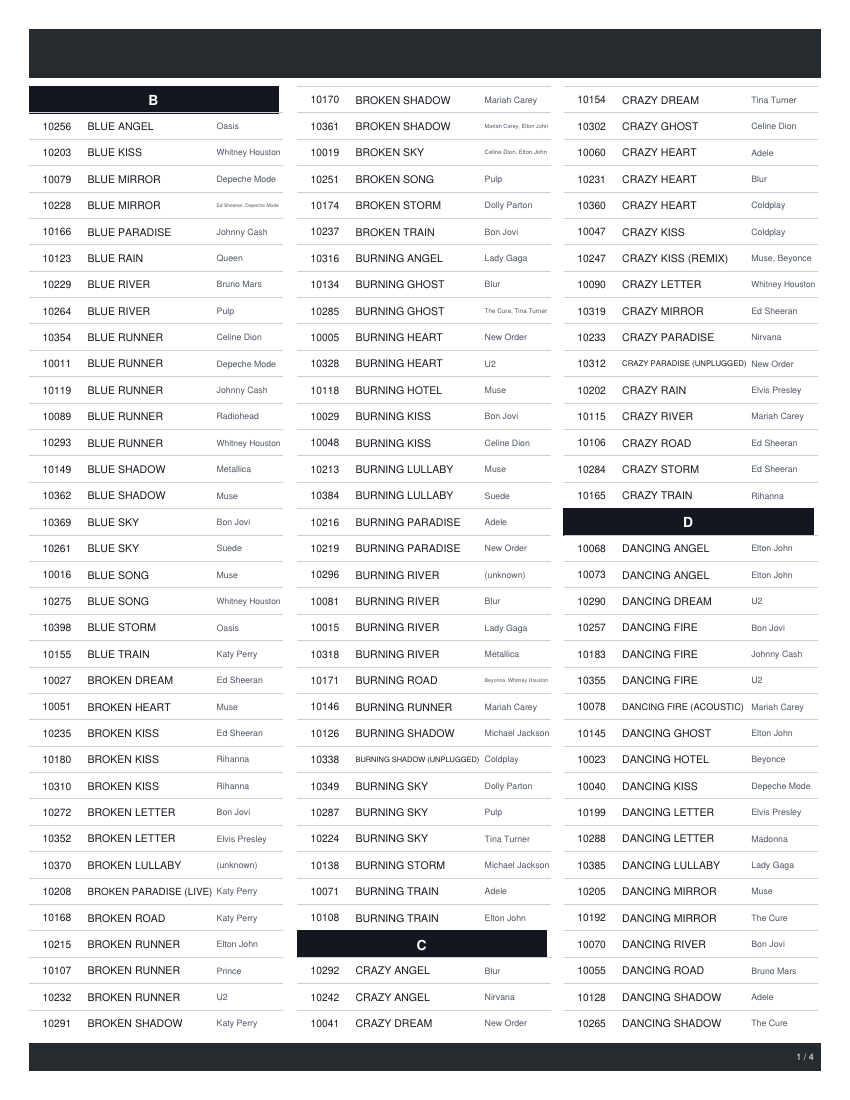
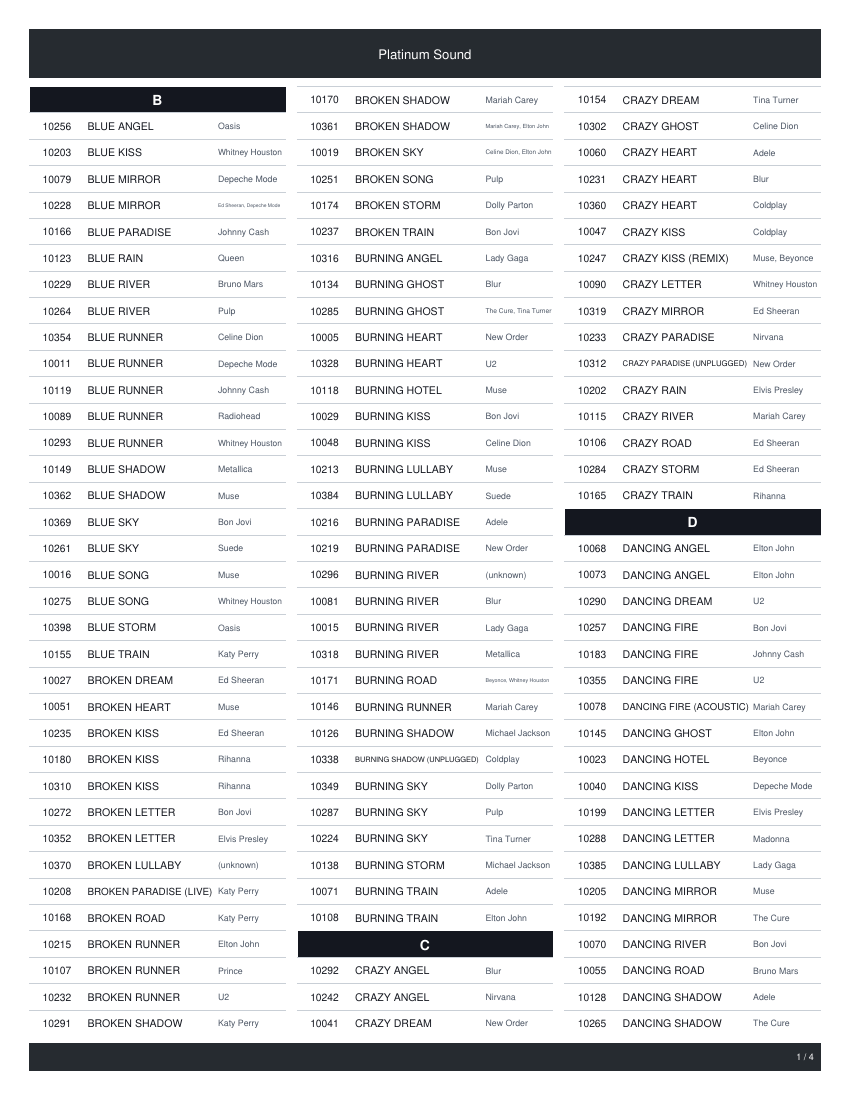
render: line the grid up exactly
The number, title and artist cells were rounded independently, so their
sum fell short of the column width and the vertical rules of neighbouring
columns did not meet. The artist column now takes the remainder, the
column positions are no longer rounded, and the section letter boxes use
the same bounds as a song row.

diff --git a/cli/src/render.rs b/cli/src/render.rs
@@ -331,19 +331,22 @@ pub fn render(songs: &[Song], opt: &Options) -> Result<(Pdf, Summary), String> {
     let mut col_x = Vec::with_capacity(cols);
     let mut x = m;
     for _ in 0..cols {
-        col_x.push(x.round());
+        // exact positions: rounding here would make the gaps between columns
+        // differ by a point or two
+        col_x.push(x);
         x += col_w + GAP;
     }
 
-    let mut num_w = NUM_W;
-    let rest = (col_w - NUM_W).floor();
-    let mut title_w = (0.65 * rest).floor();
-    let artist_w = (0.35 * rest).floor();
+    // The three cells must add up to exactly one column, otherwise every
+    // column would end short of the next one and the grid would look ragged.
     let max_num = songs.iter().map(|s| s.num).max().unwrap_or(0);
+    let mut num_w = NUM_W;
+    let mut title_w = (0.65 * (col_w - NUM_W)).floor();
     if max_num > 9_999_999 {
         num_w += 2.0;
         title_w -= 2.0;
     }
+    let artist_w = col_w - num_w - title_w;
     let cells: [f32; 3] = if opt.no_artist {
         if opt.order == Order::Tna {
             [title_w + artist_w, num_w, 0.0]
@@ -499,15 +502,16 @@ pub fn render(songs: &[Song], opt: &Options) -> Result<(Pdf, Summary), String> {
                 match item {
                     Item::Letter(ch) => {
                         let mut txt = ch.to_string();
-                        pdf.fill_rect(col_x[c] - 1.0, y_top - 1.0, total_w - 2.0, ROW_H + 2.0, opt.section_bg);
+                        // same bounds as a song row, so the grid stays flush
+                        pdf.fill_rect(col_x[c], y_top, total_w, ROW_H, opt.section_bg);
                         if opt.borders != Borders::None {
-                            pdf.stroke_rect(col_x[c] - 1.0, y_top - 1.0, total_w - 2.0, ROW_H + 2.0, opt.section_color, 0.2);
+                            pdf.stroke_rect(col_x[c], y_top, total_w, ROW_H, opt.section_color, 0.2);
                         }
-                        let (fitted, sz) = truncate_to_width(&txt, sz_letter, total_w - 2.0, true);
+                        let (fitted, sz) = truncate_to_width(&txt, sz_letter, total_w - 4.0, true);
                         txt = fitted;
                         pdf.text(
                             &txt,
-                            col_x[c] - 1.0 + (total_w - 2.0) / 2.0,
+                            col_x[c] + total_w / 2.0,
                             y_top + ROW_H / 2.0 + 0.45 * sz,
                             sz,
                             opt.section_color,
@@ -699,7 +703,13 @@ mod tests {
         assert_eq!(s.page_h, 842.0);
         assert_eq!(s.rows, 39);
         assert_eq!(s.columns, 3);
-        assert_eq!(s.cells, [40.0, 91.0, 49.0]);
+        assert_eq!(s.cells[0], 40.0);
+        assert!((s.cells[1] - 92.0).abs() < 0.01);
+        assert!((s.cells[2] - 49.67).abs() < 0.01);
+        // the cells must fill the column exactly, or the grid stops lining up
+        let col_w = (597.0 - 2.0 * 18.0 - 2.0 * 8.0) / 3.0;
+        let total: f32 = s.cells.iter().sum();
+        assert!((total - col_w).abs() < 0.001, "cells {} vs column {}", total, col_w);
     }
 
     #[test]
@@ -716,7 +726,8 @@ mod tests {
         o.no_artist = true;
         let (_, s) = render(&songs, &o).unwrap();
         assert_eq!(s.cells[2], 0.0);
-        assert_eq!(s.cells[1], 140.0);
+        // number column plus the merged title/artist is one full column
+        assert!((s.cells[0] + s.cells[1] - 181.6667).abs() < 0.01);
     }
 
     #[test]

diff --git a/cli/src/main.rs b/cli/src/main.rs
@@ -262,7 +262,7 @@ fn run() -> Result<(), String> {
             }
         );
         println!(
-            "cell widths: {}/{}/{}   sort: {}   order: {}   sections: {}",
+            "cell widths: {:.1}/{:.1}/{:.1}   sort: {}   order: {}   sections: {}",
             summary.cells[0],
             summary.cells[1],
             summary.cells[2],

diff --git a/docs/usage.md b/docs/usage.md
@@ -161,10 +161,15 @@ columnX[i] = margin + i*(colWidth + 8)
 rest       = colWidth - 40
 numberCol  = 40 pt   (42 if any number exceeds 9 999 999)
 titleCol   = 0.65 * rest
-artistCol  = 0.35 * rest
+artistCol  = colWidth - numberCol - titleCol
 ```
 
 Rows fill column 1 top to bottom, then column 2, then the next page.
+
+The artist column takes whatever is left over, so the three cells always add up to
+the full column width. Rounding the title and the artist separately would leave a
+fraction of a point over and the vertical rules of neighbouring columns would not
+line up.
 
 Font sizes start at 20 sp (title and number), 17 sp (artist) and 16 sp (section letter)
 and shrink in 0.25 steps down to 9 sp. If the text still does not fit, it is split at
